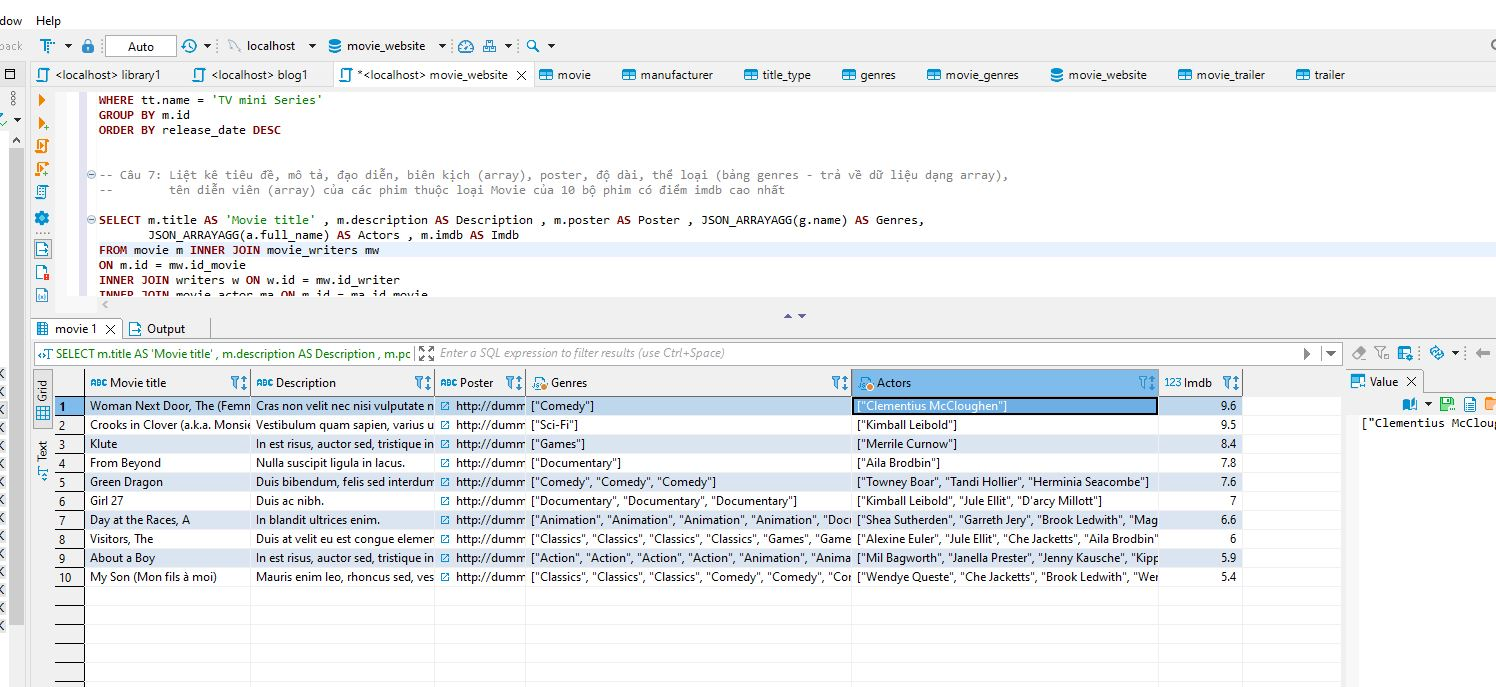
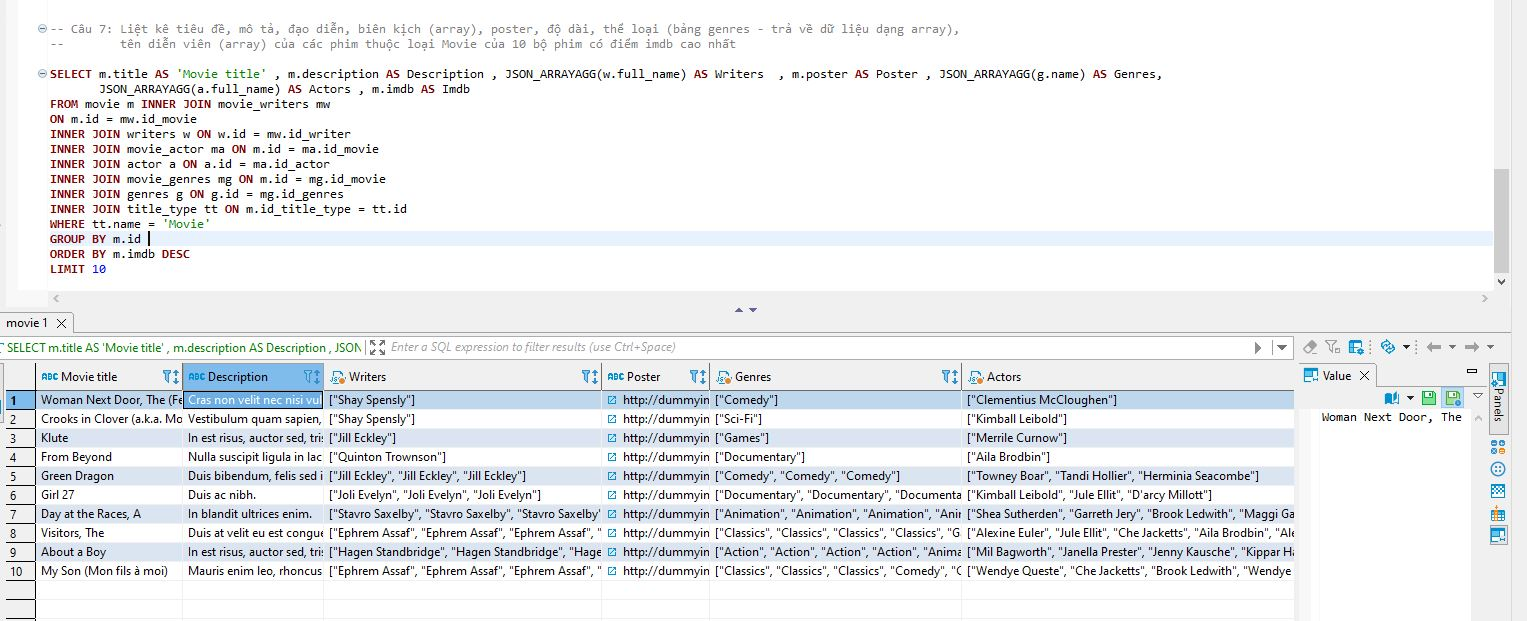
v2

diff --git a/day08/day08.md b/day08/day08.md
@@ -87,7 +87,7 @@ ORDER BY release_date DESC
 
 7. **Liệt kê tiêu đề, mô tả, đạo diễn, biên kịch (array), poster, độ dài, thể loại (bảng genres - trả về dữ liệu dạng array), tên diễn viên (array) của các phim thuộc loại Movie của 10 bộ phim có điểm imdb cao nhất**
 ```sql
-SELECT m.title AS 'Movie title' , m.description AS Description , m.poster AS Poster , JSON_ARRAYAGG(g.name) AS Genres,
+SELECT m.title AS 'Movie title' , m.description AS Description , JSON_ARRAYAGG(w.full_name) AS Writers  , m.poster AS Poster , JSON_ARRAYAGG(g.name) AS Genres,
 	   JSON_ARRAYAGG(a.full_name) AS Actors , m.imdb AS Imdb 
 FROM movie m INNER JOIN movie_writers mw 
 ON m.id = mw.id_movie 
